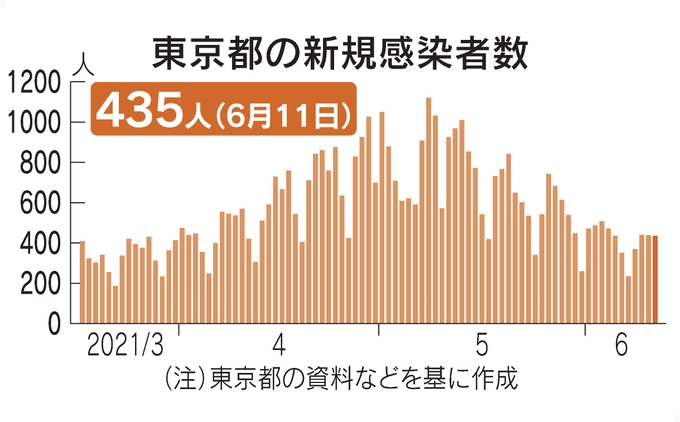
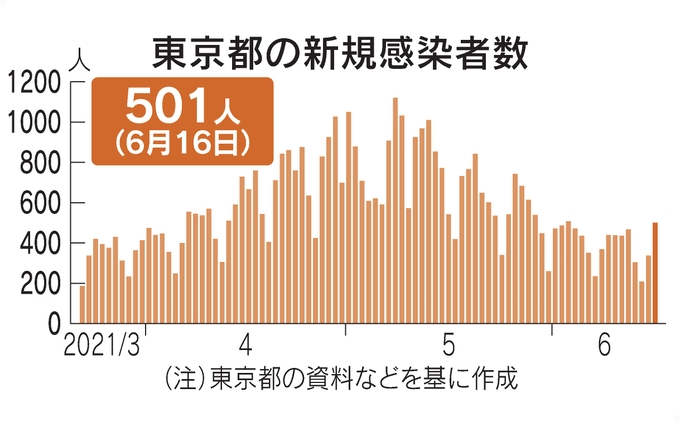
regular update

diff --git a/parts/news.php b/parts/news.php
@@ -46,6 +46,120 @@
         </li>
 
     <hr> -->
+        2021年06月17日
+    
+        <li>
+                <i class="far fa-file-alt"></i>
+                <a href="" target="blank" rel="noopener">
+                </a>
+        </li>
+        <li>
+                <i class="far fa-file-alt"></i>
+                <a href="" target="blank" rel="noopener">
+                </a>
+        </li>
+        <li>
+                <i class="far fa-file-alt"></i>
+                <a href="" target="blank" rel="noopener">
+                </a>
+        </li>
+
+    <hr>
+        2021年06月16日
+    
+        <li>
+                <i class="far fa-file-alt"></i>
+                <a href="https://www.nikkei.com/article/DGXZQOCC161D40W1A610C2000000/" target="blank" rel="noopener">
+                東京都、新たに501人感染　新型コロナ</a>
+        </li>
+        <li>
+                <i class="far fa-file-alt"></i>
+                <a href="https://www.nikkei.com/article/DGXZQOUA1623K0W1A610C2000000/" target="blank" rel="noopener">
+                五輪期間中にも再宣言の可能性　国立感染研など試算</a>
+        </li>
+        <li>
+                <i class="far fa-file-alt"></i>
+                <a href="https://www.nikkei.com/article/DGXZQOUE1132Z0R10C21A6000000/" target="blank" rel="noopener">
+                10代以下の感染増加、変異型の急拡大が背景</a>
+        </li>
+
+    <hr>
+        2021年06月15日
+    
+        <li>
+                <i class="far fa-file-alt"></i>
+                <a href="https://www.nikkei.com/article/DGXZQOCC151X70V10C21A6000000/" target="blank" rel="noopener">
+                東京都、新たに337人感染　新型コロナ</a>
+        </li>
+        <li>
+                <i class="far fa-file-alt"></i>
+                <a href="https://www.nikkei.com/article/DGXZQOGN14CZH0U1A610C2000000/" target="blank" rel="noopener">
+                米ノババックス、治験で有効性9割　コロナワクチン</a>
+        </li>
+        <li>
+                <i class="far fa-file-alt"></i>
+                <a href="https://www.nikkei.com/article/DGXZQOUF150J50V10C21A6000000/" target="blank" rel="noopener">
+                20年の事故死最少　交通白書、コロナの外出自粛が影響</a>
+        </li>
+
+    <hr>
+        2021年06月14日
+    
+        <li>
+                <i class="far fa-file-alt"></i>
+                <a href="https://www.nikkei.com/article/DGXZQOCC142F90U1A610C2000000/" target="blank" rel="noopener">
+                東京都、新たに209人感染　新型コロナ</a>
+        </li>
+        <li>
+                <i class="far fa-file-alt"></i>
+                <a href="https://www.nikkei.com/article/DGXZQOUE103OT0Q1A610C2000000/" target="blank" rel="noopener">
+                宣言下で酒提供再開の店に密着8時間　感染対策に葛藤も</a>
+        </li>
+        <li>
+                <i class="far fa-file-alt"></i>
+                <a href="https://www.nikkei.com/article/DGXZQOKC209FM0Q1A520C2000000/" target="blank" rel="noopener">
+                いでよ「コロナ禍のニュートン」　ケンブリッジ大の革新</a>
+        </li>
+
+    <hr>
+        2021年06月13日
+    
+        <li>
+                <i class="far fa-file-alt"></i>
+                <a href="https://www.nikkei.com/article/DGXZQOCC130PF0T10C21A6000000/" target="blank" rel="noopener">
+                東京都、新たに304人感染　新型コロナ</a>
+        </li>
+        <li>
+                <i class="far fa-file-alt"></i>
+                <a href="https://www.nikkei.com/article/DGXZQOUA122L00S1A610C2000000/" target="blank" rel="noopener">
+                高齢者の3割、ワクチン1回接種　2回完了は5%</a>
+        </li>
+        <li>
+                <i class="far fa-file-alt"></i>
+                <a href="https://www.nikkei.com/article/DGXZQOUC1312R0T10C21A6000000/" target="blank" rel="noopener">
+                ANAがワクチン職場接種開始　国内初、まず国際線乗務員</a>
+        </li>
+
+    <hr>
+        2021年06月12日
+    
+        <li>
+                <i class="far fa-file-alt"></i>
+                <a href="https://www.nikkei.com/article/DGXZQOCC121XH0S1A610C2000000/" target="blank" rel="noopener">
+                東京都、新たに467人感染　新型コロナ</a>
+        </li>
+        <li>
+                <i class="far fa-file-alt"></i>
+                <a href="https://www.nikkei.com/article/DGXZQOUC093S80Z00C21A6000000/" target="blank" rel="noopener">
+                10代でもコロナ重症例　「入院リスク、インフルの3倍」</a>
+        </li>
+        <li>
+                <i class="far fa-file-alt"></i>
+                <a href="https://www.nikkei.com/article/DGXZQOUC071010X00C21A4000000/" target="blank" rel="noopener">
+                世界の航空、回復に差　東南アジア勢は苦境続く</a>
+        </li>
+
+    <hr>
         2021年06月11日
     
         <li>

diff --git a/parts/info.php b/parts/info.php
@@ -4,6 +4,11 @@
 
   <div class="line"> INFO <i class="fas fa-info-circle"></i></div>
 
+  <li>2021年06月17日</li>
+  <div class="info-children">
+    <span><a href="movie.php">MOVIE</a>（9人の翻訳家 囚われたベストセラー）追加</span>
+  </div>
+
   <li>2021年06月12日</li>
   <div class="info-children">
     <span><a href="movie.php">MOVIE</a>（リトル・フォレスト 夏・秋）追加</span>
